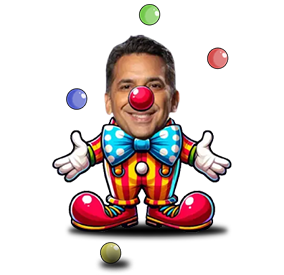
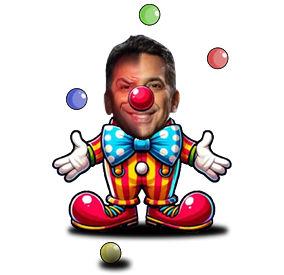
Added Lombana and Mulino's gifs

diff --git a/src/components/DetailModal.jsx b/src/components/DetailModal.jsx
@@ -5,10 +5,10 @@ const DetailModal = ({ character, setIsModalOpen }) => {
     <div className='fixed w-full h-full z-50 bg-black/50'>
       <div className='absolute top-1/2 left-1/2 -translate-x-1/2 -translate-y-1/2 w-11/12 md:w-8/12 flex flex-col md:flex-row md:h-[70svh] bg-gradient-to-t from-white to-white/70 rounded-lg shadow-lg py-10 px-5 md:px-20'>
         <button onClick={() => setIsModalOpen(false)} className='z-50 hover:scale-125 transition absolute top-2 right-2 text-5xl text-black'><FaTimes /></button>
-        <img src={character?.img} alt={character?.name} className='object-contain max-w-md rounded-lg' />
-        <div className="flex-1 md:flex-0 overflow-y-auto">
+        <img src={character.gif || character.img} alt={character?.name} className='object-contain max-w-md rounded-lg' />
+        <div className="flex-1 md:flex-0">
           <h2 className='text-2xl md:text-5xl font-bold text-gray-800'>{character.name}</h2>
-          <p className='md:text-2xl text-lg text-gray-600 mt-2 md:mt-8'>{character.description}</p>
+          <p className='md:text-2xl text-lg text-gray-600 mt-2 md:mt-8  overflow-y-auto'>{character.description}</p>
         </div>
       </div>
     </div>

diff --git a/src/components/Torrijos.jsx b/src/components/Torrijos.jsx
@@ -5,7 +5,7 @@ const Torrijos = ({ setSelectedCharacter, setIsModalOpen }) => {
     setSelectedCharacter({
         name: "Martín Torrijos",
         description:
-            "Mira nada más, ¡Haz encontrado un T-Rrijos! Creíamos que este espécimen estaba extinto. Se dice que es un dinosaurio de la política. ¡Cuidado! Puede que te coma con sus propuestas prehistóricas. Y no llegues a confiarle tu dinero... ¡De su padre aprendió a devorárselo y nunca más lo volverías a ver!.",
+            "Mira nada más, ¡Haz encontrado un T-Rrijos! Creíamos que este espécimen estaba extinto. Se dice que es un dinosaurio de la política. ¡Cuidado! Puede que te coma con sus propuestas prehistóricas. Y no llegues a confiarle tu dinero... ¡De su padre aprendió a devorárselo y nunca más lo volverías a ver!",
         img: TorrijosImg,
     });
     setIsModalOpen(true)

diff --git a/src/components/Mulino.jsx b/src/components/Mulino.jsx
@@ -1,4 +1,5 @@
 import MulinoImg from '../assets/Gorro.png'
+import MulinoGif from "../assets/Gorro.gif"
 
 const Mulino = ({ setSelectedCharacter, setIsModalOpen }) => {
     const handleClick = () => {
@@ -7,6 +8,7 @@ const Mulino = ({ setSelectedCharacter, setIsModalOpen }) => {
             description:
                 "¡Increíble! Encontraste a Mulino. Un personaje muy escurridizo. En los momentos importantes... ¡desaparece como por arte de magia! Se comenta que hypnotiza a la población con palabras vacías. De hecho, ¡nadie sabe cuáles son sus propuestas!",
             img: MulinoImg,
+            gif: MulinoGif
         });
         setIsModalOpen(true)
     }

diff --git a/src/components/Lombana.jsx b/src/components/Lombana.jsx
@@ -1,4 +1,5 @@
 import LombanaImg from '../assets/Payaso.png'
+import LombanaGif from "../assets/Payaso.gif"
 
 const Lombana = ({ setSelectedCharacter, setIsModalOpen }) => {
 
@@ -8,6 +9,7 @@ const Lombana = ({ setSelectedCharacter, setIsModalOpen }) => {
             description:
                 "¡Qué risa! ¡Encontraste a Lombana! Es el payaso de la política. Siempre está haciendo chistes y payasadas. ¡Hacer reir a la gente es lo único en lo que es bueno! Pero no te dejes engañar, porque... ¡Tiene doble cara! Cambia su discurso según le convenga.",
             img: LombanaImg,
+            gif: LombanaGif
         });
         setIsModalOpen(true)
     }
